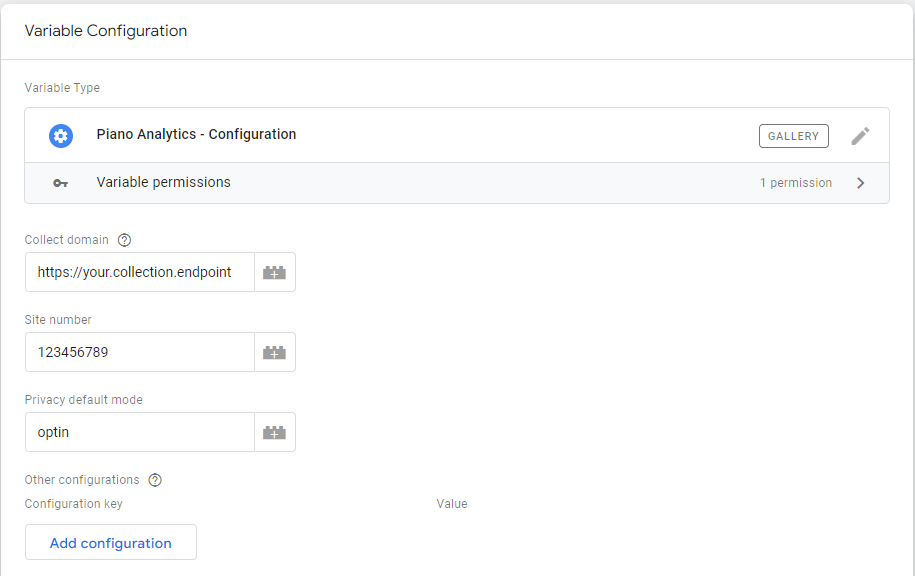
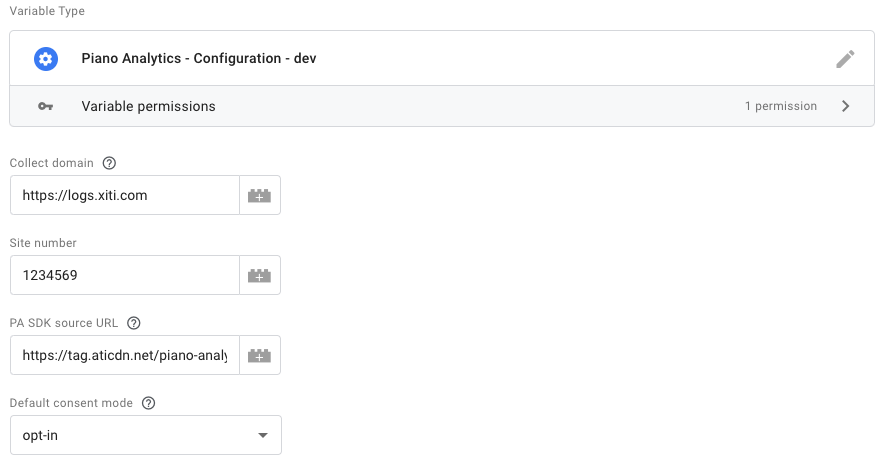
Update README with new features documentation

diff --git a/README.md b/README.md
@@ -16,15 +16,17 @@ Create a new *Variable* based on the *Piano Analytics - Configuration* template.
 
 ![New variable type](res/variable-type.png)
 
-Fill your collection endpoint and site number. You can also add any other configuration available with our JS SDK ([documentation](https://developers.atinternet-solutions.com/piano-analytics/data-collection/sdks/javascript#configuration)).
-
-Also, choose the default privacy mode.
+Fill your collection endpoint, site number, [PA SDK source](https://developers.atinternet-solutions.com/piano-analytics/data-collection/sdks/javascript#load-the-library) (up to date CDN file by default) and choose the default consent mode.
 
 ![Variable configuration](res/variable-configuration.png)
 
-Finally, you can configure your Privacy settings ([documentation](https://developers.atinternet-solutions.com/piano-analytics/data-collection/how-to-send-events/privacy#manage-a-privacy-mode)).
+You can configure your Consent settings ([documentation](https://developers.atinternet-solutions.com/piano-analytics/data-collection/how-to-send-events/consent#manage-default-consent-modes)).
 
-![Privacy configuration](res/privacy-configuration.png)
+![Consent configuration](res/consent-configuration.png)
+
+You can also add any other configuration available with our JS SDK ([documentation](https://developers.atinternet-solutions.com/piano-analytics/data-collection/sdks/javascript#configuration)).
+
+![Other SDK configuration](res/sdk-configurations.png)
 
 ### Tag
 
@@ -48,7 +50,50 @@ Fill the *Event name* and all the properties needed.
 
 [Documentation](https://developers.atinternet-solutions.com/piano-analytics/data-collection/how-to-send-events/send-events-via-sdks)
 
-For each event t be sent, fill the *Event name* and give a variable with an object of properties to be sent.
+For each event to be sent, fill the *Event name* and give a variable with an object of properties to be sent.
+
+![Send multiple events](res/multiple-events.png)
+
+The event properties object can either be a JS Variable, or a custom JS Variable.
+
+![Custom JS Variable](re/../res/custom-js-var.png)
+
+#### eCommerce bridge
+
+[Documentation](https://developers.atinternet-solutions.com/piano-analytics/data-collection/how-to-send-events/sales-insights)
+
+The template offers a native GA eCommerce bridge, that will automatically transform GA eCommerce tagging to Piano Analytics events and properties.
+
+##### Events mapping
+
+Default events mapping is displayed directly in the tag configuration.
+
+![Default ecommerce events mapping](res/ecommerce-events-mapping.png)
+
+##### Properties mapping
+
+Default properties mapping is displayed directly in the tag configuration.
+
+![Default ecommerce properties mapping](res/ecommerce-props-mapping.png)
+
+You can customize the properties mapping by adding new lines. Each line describes one mapping.
+
+1. The first field expects the Datalayer property name. You can prefix the value with `$$` to give a value instead of a property name.
+2. The second field expects the Piano Analytics property to fill with the output.
+
+![Custom ecommerce properties mapping](res/ecommerce-custom-props-mapping.png)
+
+#### Set properties
+
+[Documentation](https://developers.atinternet-solutions.com/piano-analytics/data-collection/how-to-send-events/send-events-via-sdks#add-properties-to-events)
+
+You can set properties to subsequent events.
+
+![Set properties](res/set-properties.png)
+
+You can set the type of the property to either a fixed type, or to let the template automatically detect the type (using `JSON.parse` JS method).
+
+![Set property type](res/set-props-type.png)
 
 #### Set a user
 
@@ -58,7 +103,15 @@ You can user this action to identify a logged in user.
 
 ![Set a user](res/set-a-user.png)
 
-#### Set a Privacy mode
+#### Set a Consent mode
+
+[Documentation](https://developers.atinternet-solutions.com/piano-analytics/data-collection/how-to-send-events/consent#set-a-consent-mode)
+
+You can set a new Consent mode if the end-user changes its preferences.
+
+![Set consent mode](res/set-consent.png)
+
+#### Set a Privacy mode (deprecated)
 
 [Documentation](https://developers.atinternet-solutions.com/piano-analytics/data-collection/how-to-send-events/privacy#set-a-privacy-mode)
 
